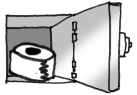
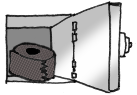
You have to duct tape the superconductor

Changed region(s): [[0.0584, 0.4632, 0.4088, 0.8632]]

diff --git a/gamelib/scenes/bridge.py b/gamelib/scenes/bridge.py
@@ -200,11 +200,25 @@ class StethoscopeThing(Thing):
                       "heart has stopped. Probably a while ago.")
 
 
+class TapedSuperconductor(Item):
+    "Used for connecting high-powered parts of the ship up"
+
+    INVENTORY_IMAGE = 'superconductor_taped.png'
+    CURSOR = CursorSprite('superconductor_taped_cursor.png')
+
+
 class Superconductor(Item):
     "Used for connecting high-powered parts of the ship up"
 
     INVENTORY_IMAGE = 'superconductor_fixed.png'
     CURSOR = CursorSprite('superconductor_fixed.png')
+
+    def interact_with_duct_tape(self, item, state):
+        taped_superconductor = TapedSuperconductor('taped_superconductor')
+        state.add_item(taped_superconductor)
+        state.replace_inventory_item(self.name, taped_superconductor.name)
+        return Result("You rip off a piece of duct tape and stick it on the superconductor. "
+                      "It almost sticks to itself, but you successfully avoid disaster.")
 
 
 class SuperconductorThing(Thing):

diff --git a/gamelib/scenes/engine.py b/gamelib/scenes/engine.py
@@ -196,6 +196,15 @@ class SuperconductorSocket(Thing):
             return Result("With leverage, the burned-out superconductor snaps out.")
 
     def interact_with_superconductor(self, item):
+        if self.get_data('present'):
+            return Result("It might help to remove the broken superconductor first")
+        else:
+            return Result("You plug in the superconductor, and feel a humm "
+                          "as things kick into life. "
+                          "Unfortunately, it's the wrong size for the socket "
+                          "and just falls out again when you let go.")
+
+    def interact_with_taped_superconductor(self, item):
         if not self.get_data('present'):
             self.set_interact('fixed')
             self.set_data('present', True)
